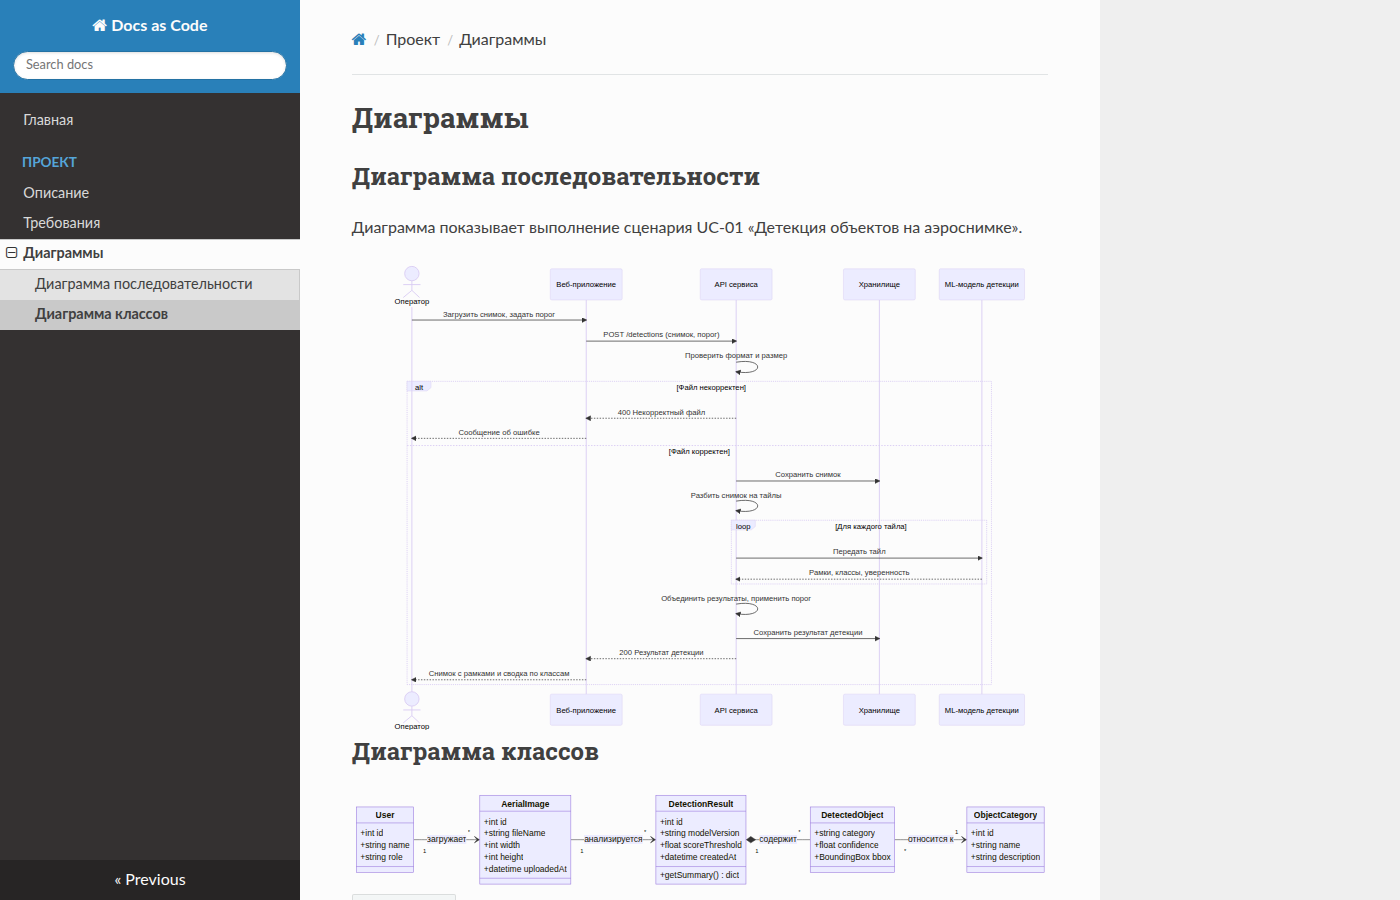
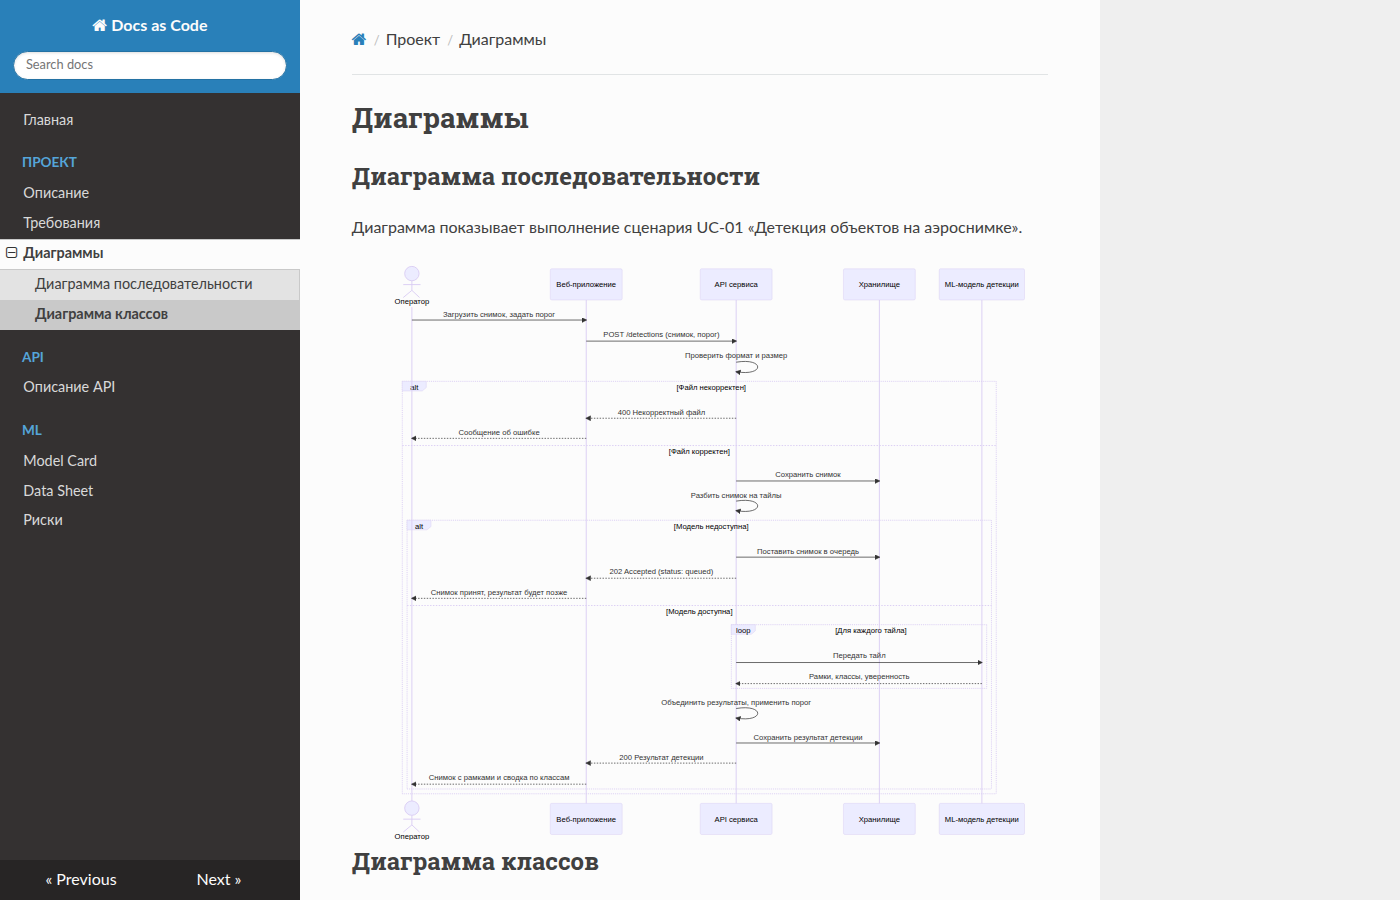
Align API with queue scenario: add 202 Accepted for queued detections

diff --git a/docs/api/index.md b/docs/api/index.md
@@ -29,6 +29,19 @@ API предоставляет доступ к функциям сервиса E
 }
 ```
 
+## Очередь обработки
+
+Если модель временно недоступна, `POST /detections` не возвращает ошибку:
+снимок ставится в очередь, а сервис отвечает `202 Accepted`.
+
+```json
+{ "id": 1025, "status": "queued", "createdAt": "2026-11-05T10:20:00Z" }
+```
+
+Результат можно получить позже через `GET /detections/{detectionId}`:
+пока статус `queued`, список объектов пуст, после обработки статус меняется
+на `completed`.
+
 ## Ошибки
 
 Все ошибки возвращаются в едином формате:
@@ -39,11 +52,12 @@ API предоставляет доступ к функциям сервиса E
 
 | Код | Когда возникает |
 |-----|-----------------|
+| 202 | Модель временно недоступна, снимок поставлен в очередь (статус `queued`) |
 | 400 | Файл не является изображением или порог вне диапазона 0–1 |
 | 404 | Результат детекции не найден |
 | 413 | Размер файла больше 50 МБ |
 | 415 | Формат файла не PNG, JPEG или TIFF |
-| 503 | Модель временно недоступна |
+| 503 | Модель не загружена (`GET /models/current`) |
 | 500 | Внутренняя ошибка сервиса |
 
 ## Спецификация

diff --git a/docs/project/diagrams.md b/docs/project/diagrams.md
@@ -21,14 +21,20 @@ sequenceDiagram
     else Файл корректен
         API->>Storage: Сохранить снимок
         API->>API: Разбить снимок на тайлы
-        loop Для каждого тайла
-            API->>Model: Передать тайл
-            Model-->>API: Рамки, классы, уверенность
+        alt Модель недоступна
+            API->>Storage: Поставить снимок в очередь
+            API-->>App: 202 Accepted (status: queued)
+            App-->>Operator: Снимок принят, результат будет позже
+        else Модель доступна
+            loop Для каждого тайла
+                API->>Model: Передать тайл
+                Model-->>API: Рамки, классы, уверенность
+            end
+            API->>API: Объединить результаты, применить порог
+            API->>Storage: Сохранить результат детекции
+            API-->>App: 200 Результат детекции
+            App-->>Operator: Снимок с рамками и сводка по классам
         end
-        API->>API: Объединить результаты, применить порог
-        API->>Storage: Сохранить результат детекции
-        API-->>App: 200 Результат детекции
-        App-->>Operator: Снимок с рамками и сводка по классам
     end
 ```
 

diff --git a/docs/project/requirements.md b/docs/project/requirements.md
@@ -61,8 +61,9 @@
 
 - *2а.* Файл не является изображением или превышает допустимый размер — система
   сообщает об ошибке, и сценарий завершается.
-- *4а.* Модель временно недоступна — система сообщает, что снимок поставлен
-  в очередь и будет обработан позже.
+- *4а.* Модель временно недоступна — система ставит снимок в очередь и
+  подтверждает это ответом `202 Accepted` со статусом `queued`. Оператор
+  получает результат позже по идентификатору, когда статус станет `completed`.
 
 **Результат:** объекты на снимке найдены и сохранены, либо оператор получил
 сообщение о причине, по которой обработка невозможна.
